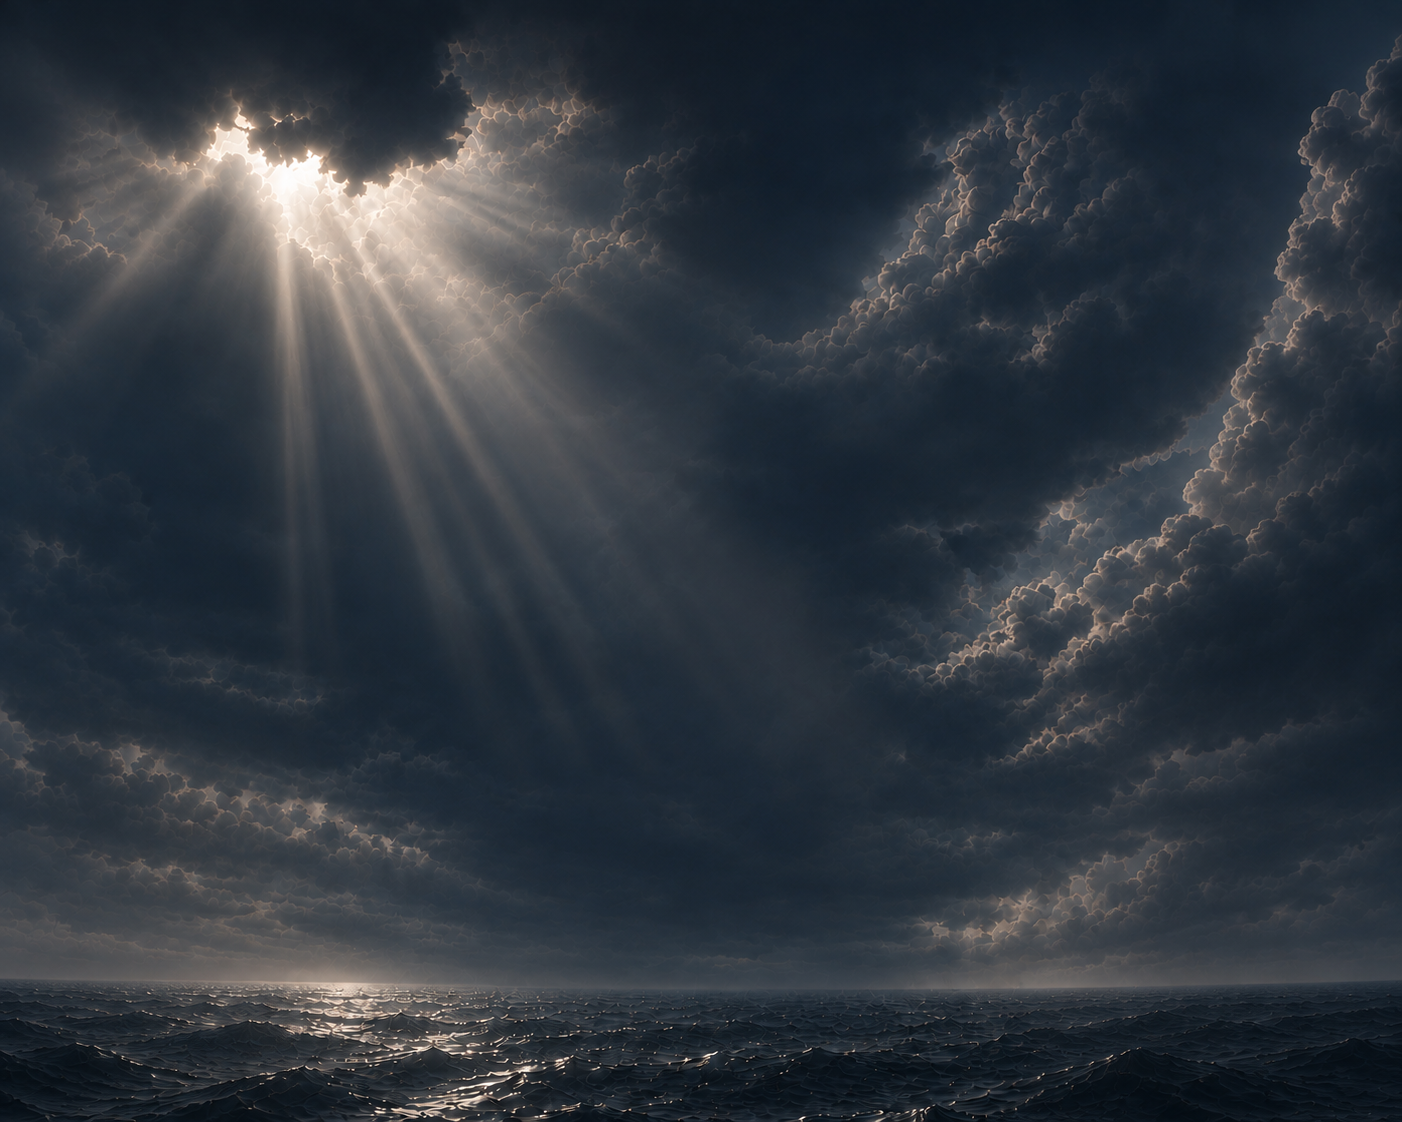
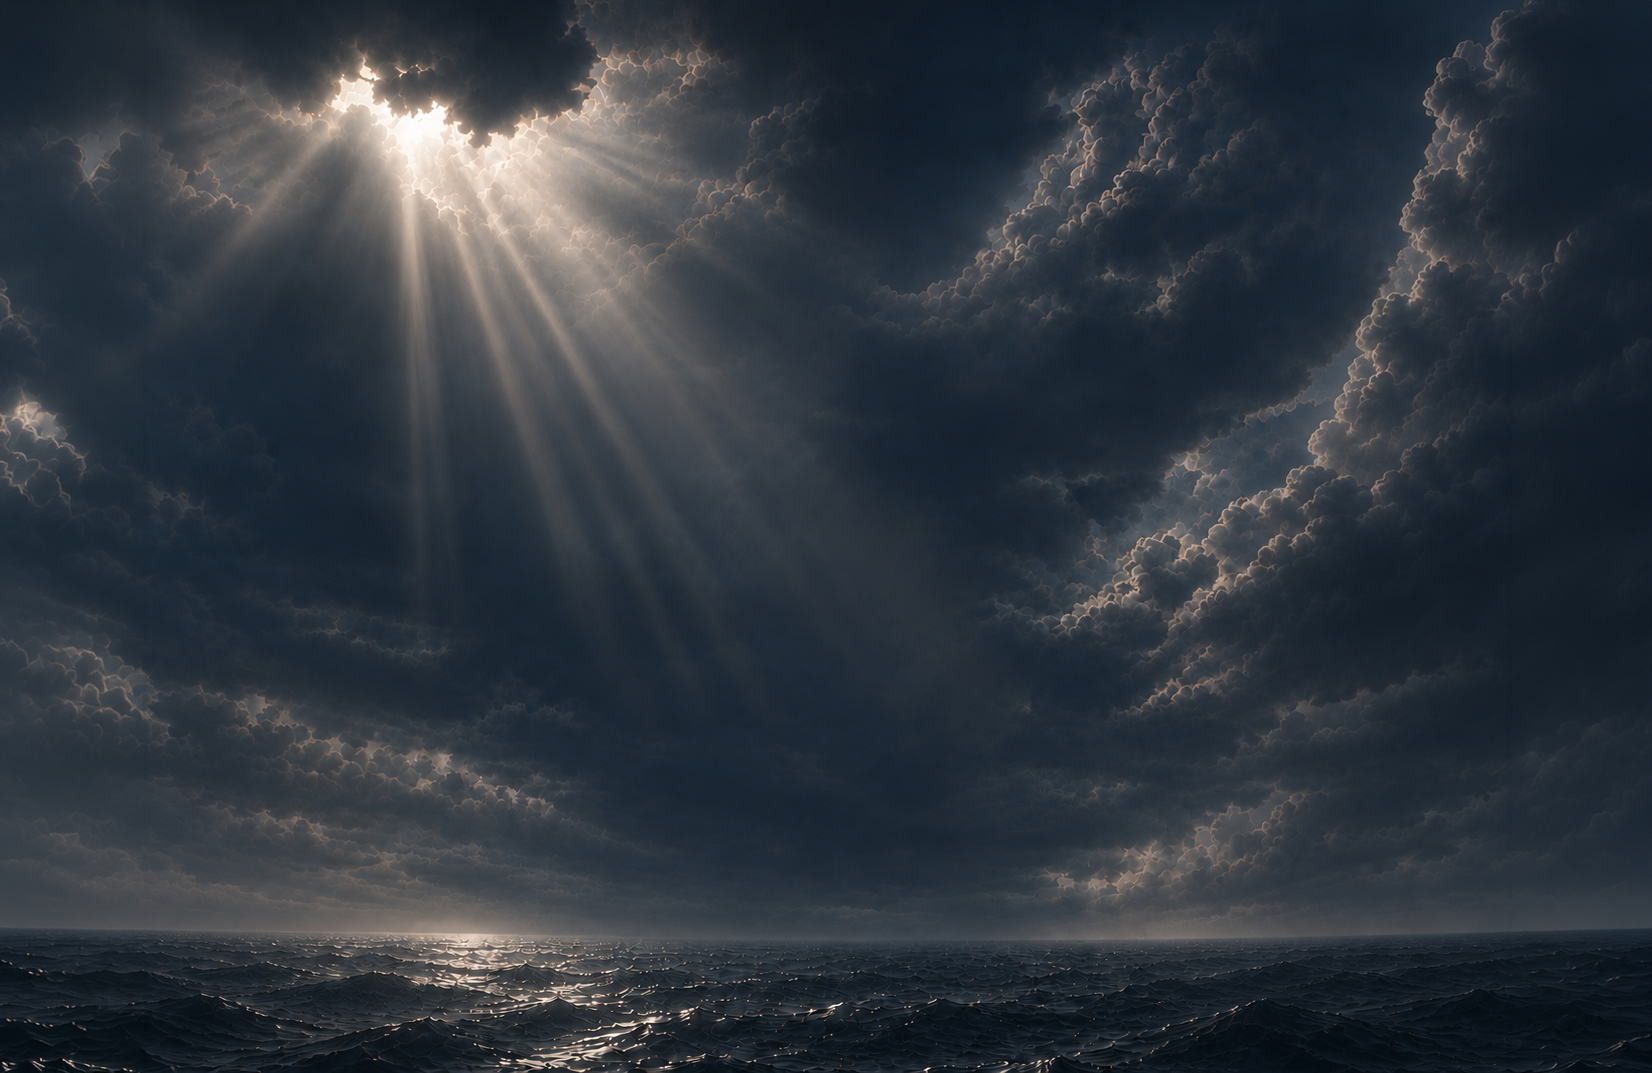
test: swap hero sky video for dark sky-new.png still
Replace sky-video with a static image so the moody new sky reads
correctly: cover+object-position instead of the old fill stretch,
header/#ui text flipped to the existing on-dark theme for contrast,
and a first-pass color filter on the wall panels to match the mood.

diff --git a/css/style.css b/css/style.css
@@ -434,7 +434,7 @@ body.menu-closing .site-header {
 .site-header__logo-image--on-dark {
     position: absolute;
     inset: 0;
-    filter: invert(1);
+    /* filter: invert(1); */
     clip-path: inset(var(--bt-header-logo-dark-start, 0%) 0 calc(100% - var(--bt-header-logo-dark-end, 0%)) 0);
     will-change: clip-path;
 }
@@ -1105,12 +1105,13 @@ body.menu-open .site-header__backdrop {
 
 #sky-video {
     width: 100%;
-    height: 100%;
+    height: auto;
     display: block;
     object-fit: fill;
+    object-position: -60% top;
     opacity: 0;
-    transform: scale(1.015);
-    transform-origin: 50% 38%;
+    /* transform: scale(1.015); */
+    /* transform-origin: 50% 38%; */
     filter: saturate(1.08) contrast(1.025) brightness(1.015);
     transition: opacity 480ms ease;
     will-change: opacity, transform;
@@ -1177,6 +1178,7 @@ body.menu-open .site-header__backdrop {
     display: block;
     object-fit: fill;
     will-change: transform;
+    /* filter: sepia(0.35) hue-rotate(185deg) saturate(1.5) brightness(0.4) contrast(1.1); */
 }
 
 #wall-left {
@@ -1412,7 +1414,7 @@ the timeline drops them under the ship once the walls have retreated. */
     gap: var(--space-10);
     opacity: 0;
     text-align: center;
-    color: var(--ink);
+    color: var(--bt-white);
     font-family: var(--headline);
 }
 

diff --git a/index.html b/index.html
@@ -139,12 +139,9 @@
 
     <!-- Start : Hero -->
     <div id="scroller">
-        <div id="stagewrap">
+        <div id="stagewrap" data-header-theme="dark">
             <div id="bg" aria-hidden="true">
-                <video id="sky-video" muted loop playsinline preload="metadata"
-                    poster="images/sky-poster.webp" disablepictureinpicture>
-                    <source src="video/sky-video-loop.mp4" type="video/mp4">
-                </video>
+                <img id="sky-video" src="images/sky-new.png" alt="" decoding="async">
             </div>
 
             <div id="stage">

diff --git a/js/hero-v2-scroll-motion.js b/js/hero-v2-scroll-motion.js
@@ -1543,6 +1543,10 @@
 
         function setupSkyMotion() {
             const video = el.skyVideo;
+            if (!video || video.tagName !== 'VIDEO') {
+                if (el.bg) el.bg.classList.add('is-video-ready');
+                return;
+            }
             const mediaMotionAllowed = !reduced && !saveData && !STATIC_FRAME;
 
             const syncSceneActivity = () => {
